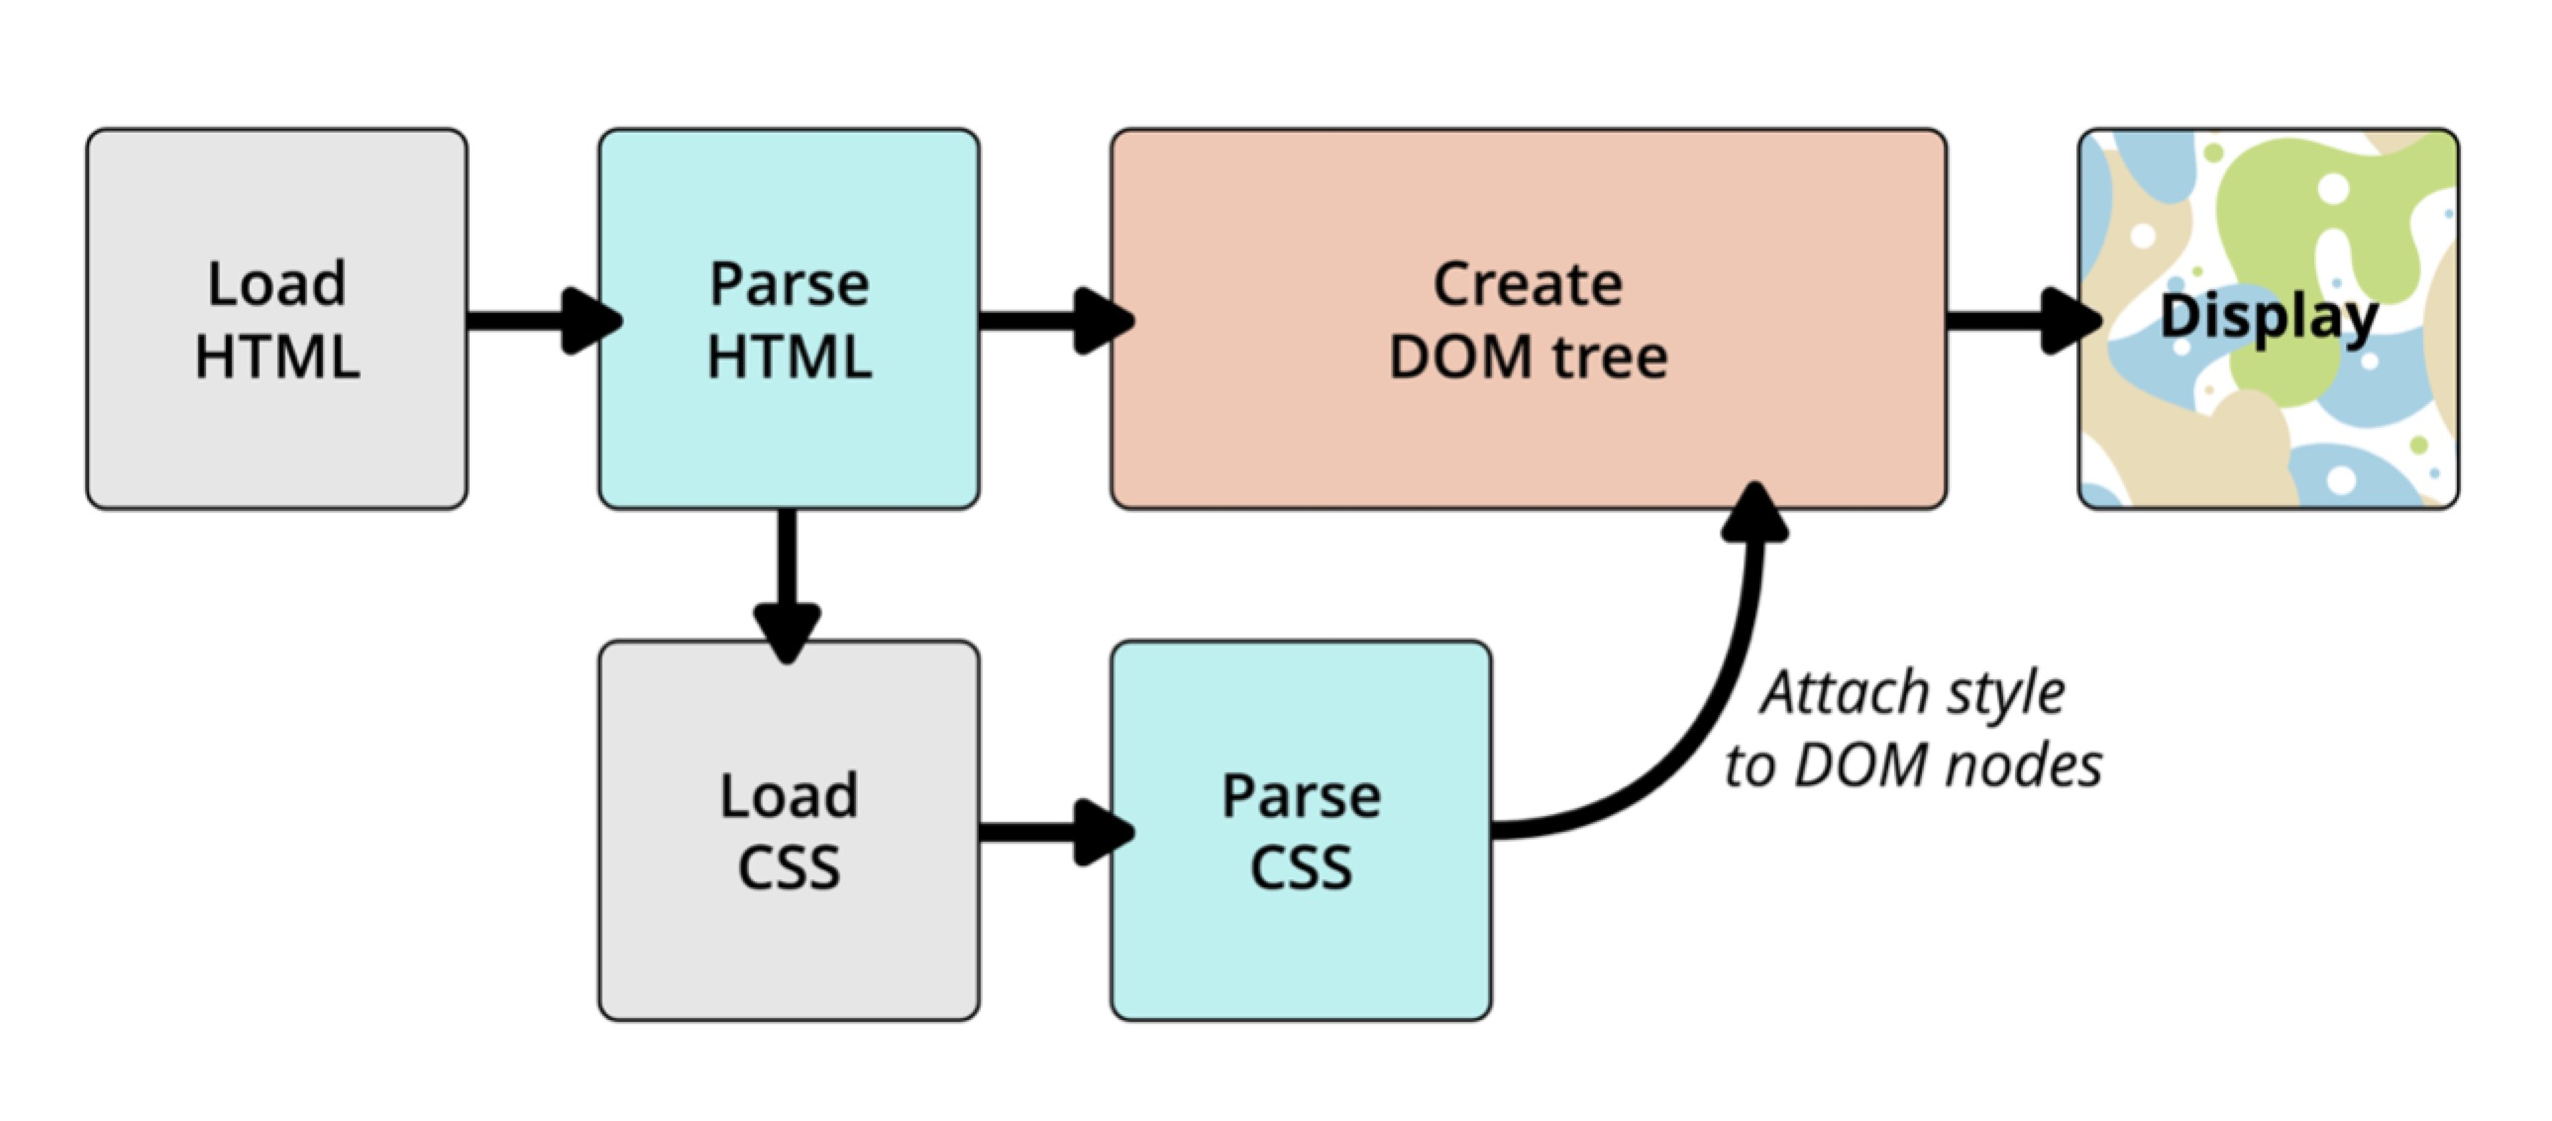
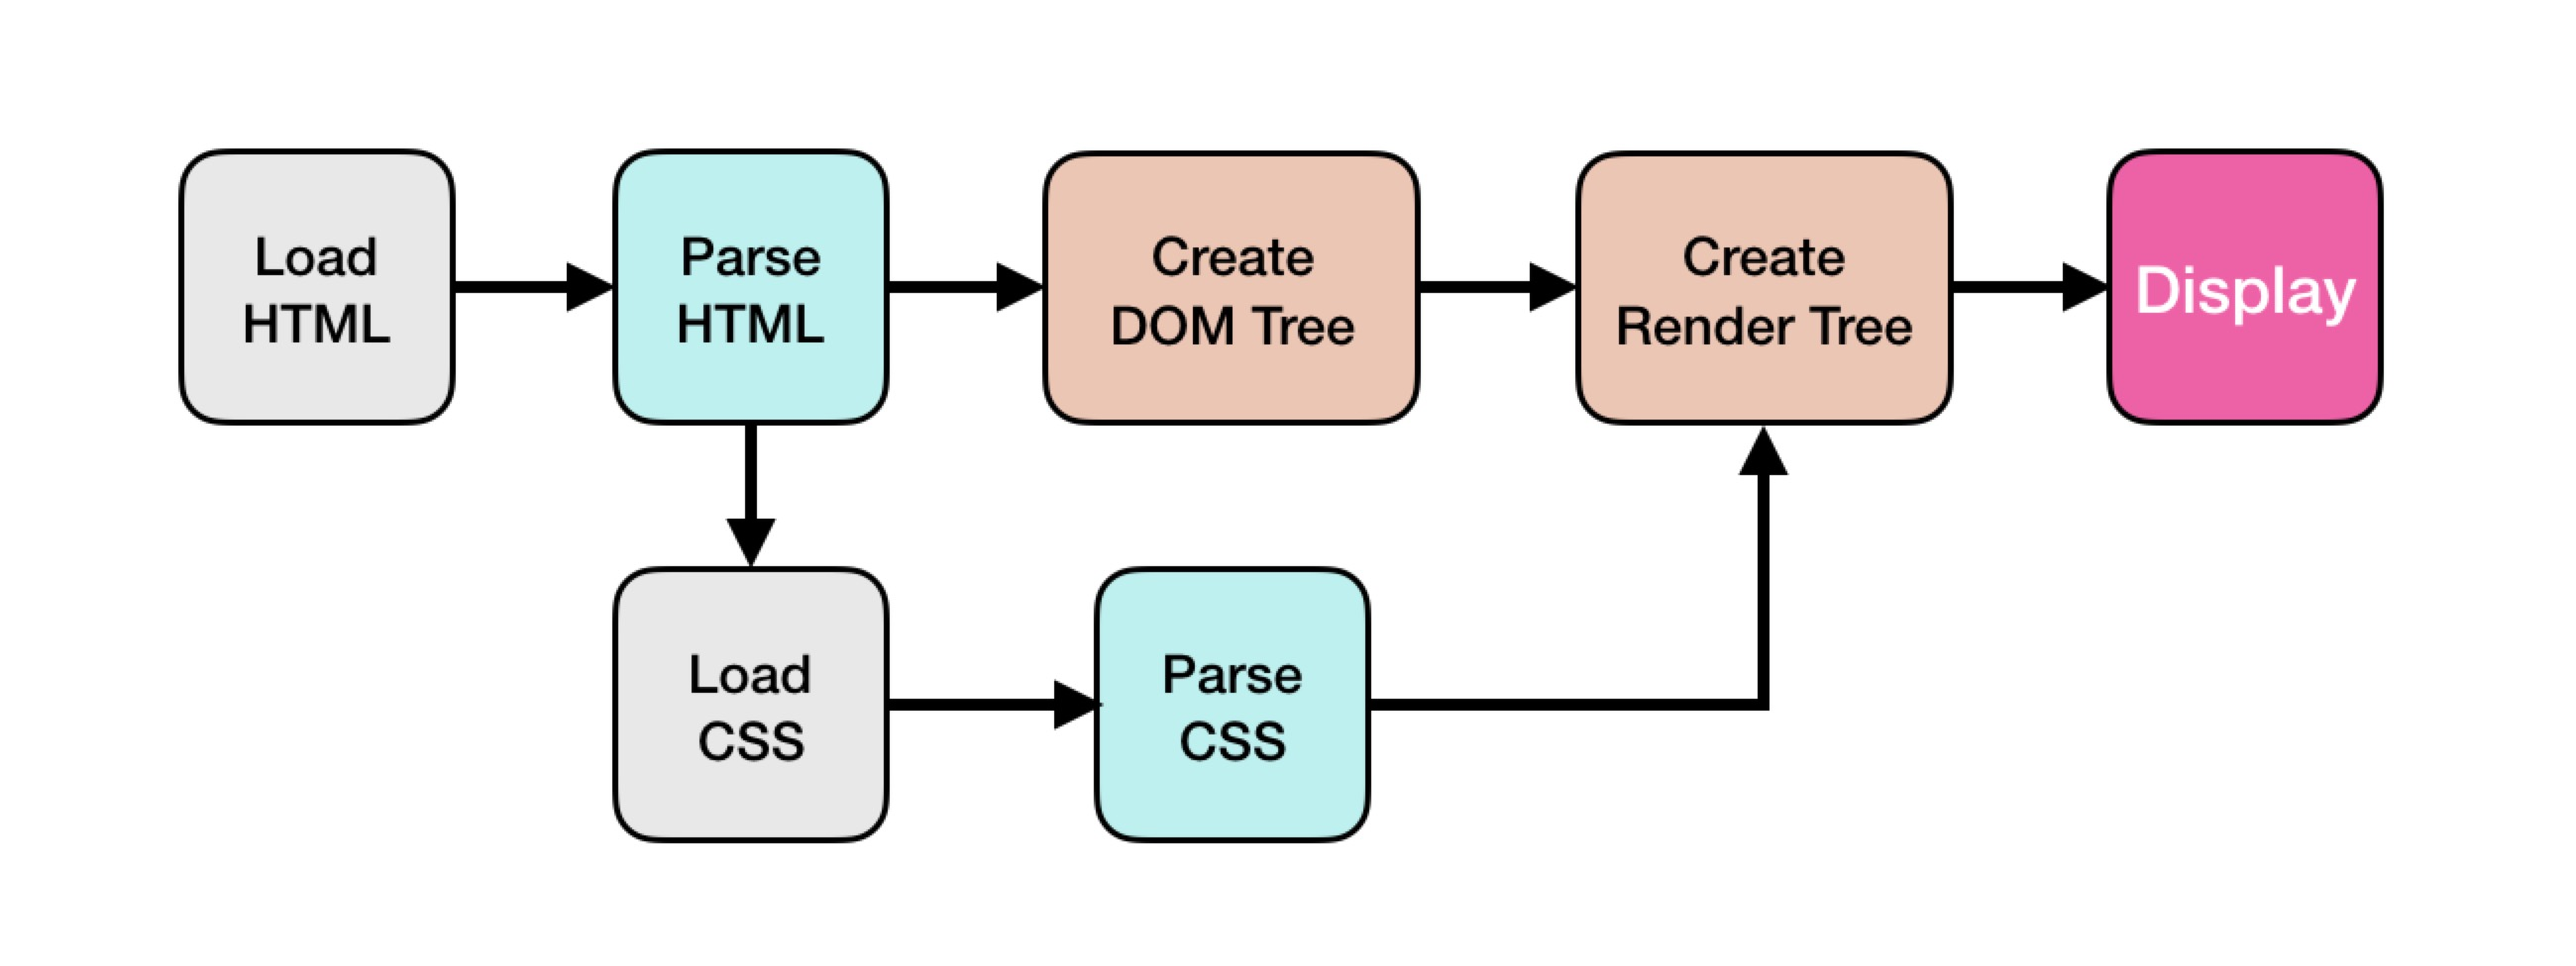
refine html and css

Changed region(s): [[0.0311, 0.0922, 0.9627, 0.9221]]

diff --git a/week1/htmlcss/HTML.md b/week1/htmlcss/HTML.md
@@ -9,6 +9,29 @@ HTML（超文本标记语言——HyperText Markup Language）
 
 **Javascript**：网页的功能与行为
 
+## HTML是怎么工作的
+![HTML工作机制](/images/html-parsing.jpg)
+
+```html
+<html>
+    <head></head>
+    <body>
+        <p>
+          Let's use: Cascading
+        </p>    
+    </body>
+</html>
+```
+DOM树:
+```text
+#document
+└─ HTML
+    ├─ HEAD
+    └─ BODY
+         └─ P
+            └─ "Let's use: Cascading"
+```
+
 ## 在线编辑工具
 - [JSBin](http://jsbin.com/?html,js,output)
 - [Thimble](https://thimble.mozilla.org/zh-CN/)
@@ -19,6 +42,8 @@ HTML（超文本标记语言——HyperText Markup Language）
 
 #### 嵌套元素
 
+#### 空元素
+
 #### 块级元素和内联元素
 **块级元素**：在页面中以块的形式展现 —— 相对与其前面的内容它会出现在新的一行，其后的内容也会被挤到下一行展现
 
@@ -28,7 +53,7 @@ HTML（超文本标记语言——HyperText Markup Language）
 - 默认情况下，块级元素的内容宽度是其父元素的宽度的100％，并且与其内容一样高。
 - 内联元素高宽与他们的内容高宽一样。您不能对内联元素设置宽度或高度——它们只是位于块级元素的内容中。
 
-**默认浏览器有默认的展示元素的CSS样式**
+**默认浏览器有默认的展示不同元素的CSS样式**
 
 #### 空元素
 只有一个标签，通常用来在此元素所在位置插入/嵌入一些东西
@@ -51,14 +76,33 @@ HTML（超文本标记语言——HyperText Markup Language）
 </html>
 ``` 
 
-`meta`: 元数据。指定包含关于页面内容的关键字可能或让你的页面在搜索引擎的相关的搜索出现得更多(SEO)。
+`meta`: 元数据。指定包含关于页面内容的关键字，可能会让你的页面在搜索引擎的相关的搜索出现得更多(SEO)。
 
 **练习**：创建一个空页面，包含html文档和css，js文件的引用
 
 ### HTML语义
+
+https://developer.mozilla.org/zh-CN/docs/Learn/HTML/Introduction_to_HTML/HTML_text_fundamentals
 
 #### 语义化标签的优点：
 - 比`<div>`标签有更加丰富的含义，方便开发与维护
 - 搜索引擎能更方便的识别页面的每个部分
 - 方便其他设备解析（如移动设备、盲人阅读器等）
 
+#### HTML5
+ 
+##### 新的HTML5元素
+- 新的语义元素： `<header>` `<footer>` `<article>` `<section>` 等
+- 新Form元素属性：number, date, time, calendar, and range
+- 新的图形元素：`<svg>` 和 `<canvas>`
+- 新的多媒体元素：`<audio>`和 `<video>`
+
+##### 新的HTML5 API
+- HTML地理位置
+- HTML拖放
+- HTML Local Storage
+- HTML应用程序缓存
+
+-------
+
+[HTML练习](https://github.com/2018-grad-training/tw-resume-htmlcss-base)
